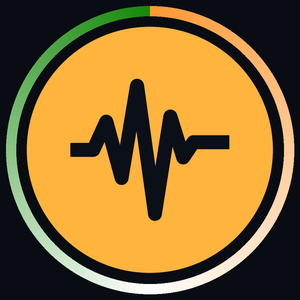
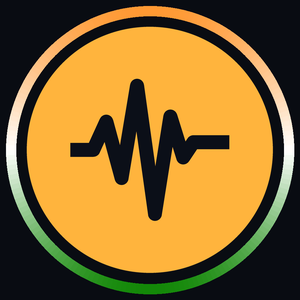
Stack the launch ring like the flag, not around it
The tricolour ran around the circumference, which put saffron down one side and
green down the other — an order nobody reads as the tricolour, because the flag
stacks top to bottom. The ring now takes its colour from height: saffron across
the top, white at the waist, green along the bottom. Checked at 200, 96 and 48
px, since the avatar is a 48 px circle everywhere it matters.

Changed region(s): [[0.06, 0.21, 0.99, 0.99], [0.0, 0.0, 0.51, 0.66]]

diff --git a/brand/make_social.py b/brand/make_social.py
@@ -241,9 +241,17 @@ def profile(size, launch=False):
         ring = max(2, int(s * 0.035))
         inset = int(s * 0.02)
         box = [inset, inset, s - inset, s - inset]
+        radius = (s - inset * 2) / 2.0
+        cx = cy = s / 2.0
         for a in range(0, 360, 2):
-            # start at the top and run round, so saffron sits at 12 o'clock
-            t = ((a + 90) % 360) / 360.0
+            # Colour by height, not by angle. Running the gradient round the
+            # circumference puts saffron and green on opposite *sides*, which
+            # reads as neither — the flag stacks top to bottom, so the ring
+            # should too: saffron across the top, white at the waist, green
+            # along the bottom.
+            mid = math.radians(a + 1)
+            y = cy + math.sin(mid) * radius
+            t = min(1.0, max(0.0, (y - (cy - radius)) / (radius * 2)))
             d.arc(box, a, a + 3, fill=tricolour(t) + (255,), width=ring)
     inner = int(s * (0.855 if launch else 0.94))
     img.alpha_composite(mark(inner, round_tile=launch),
